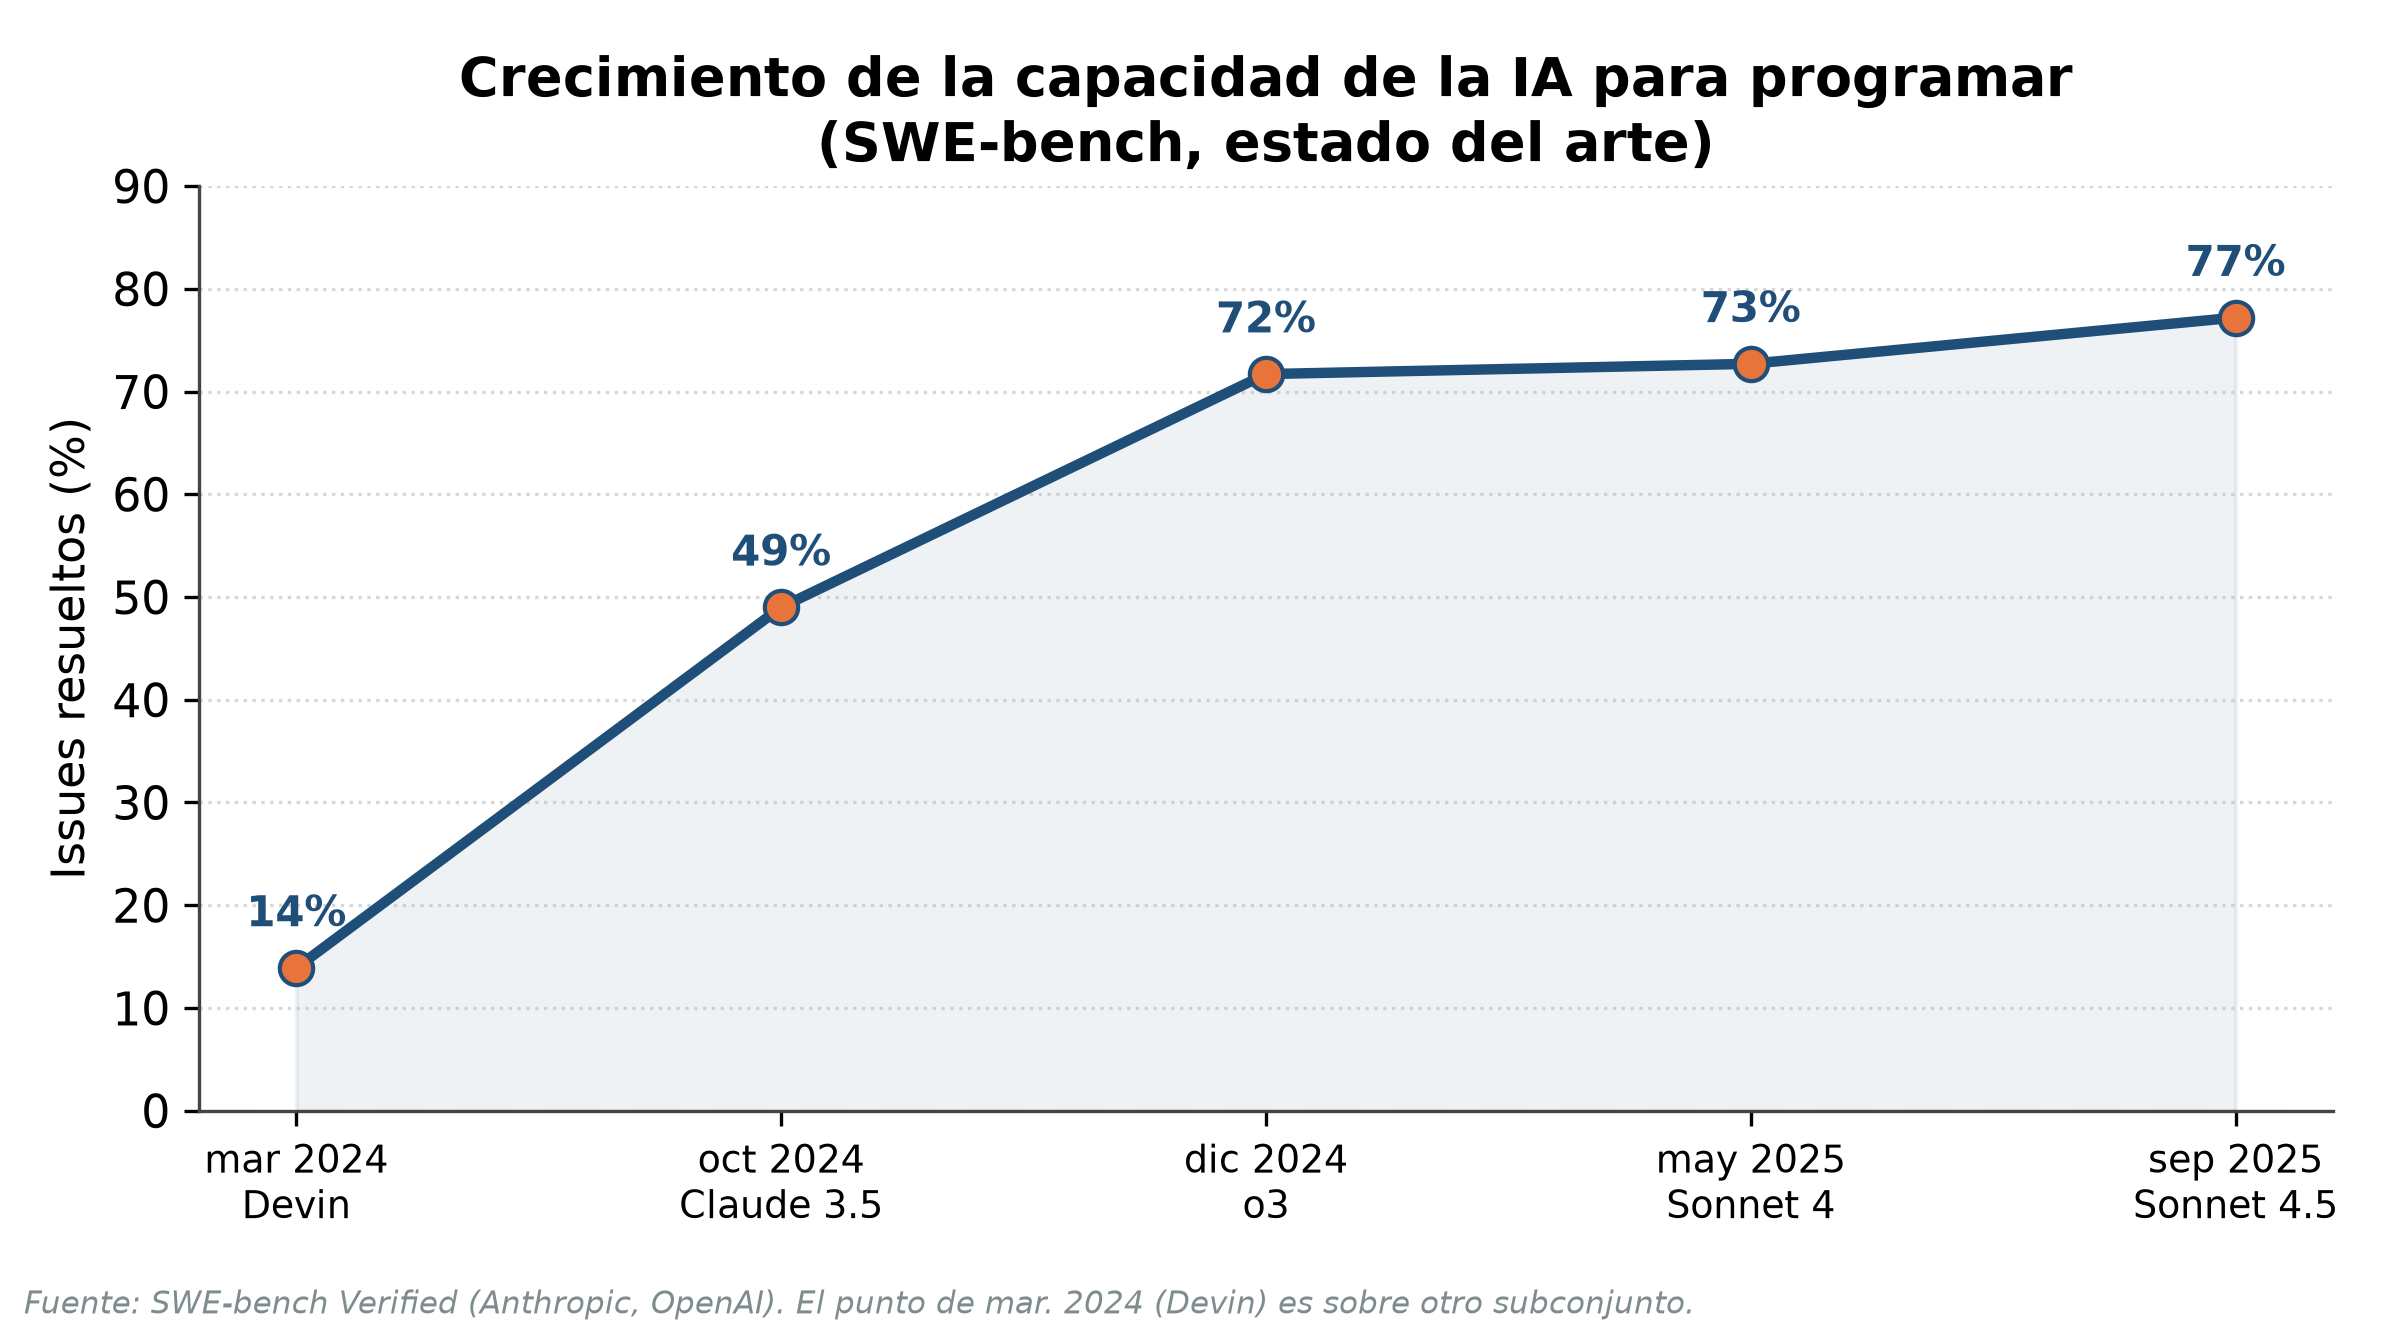
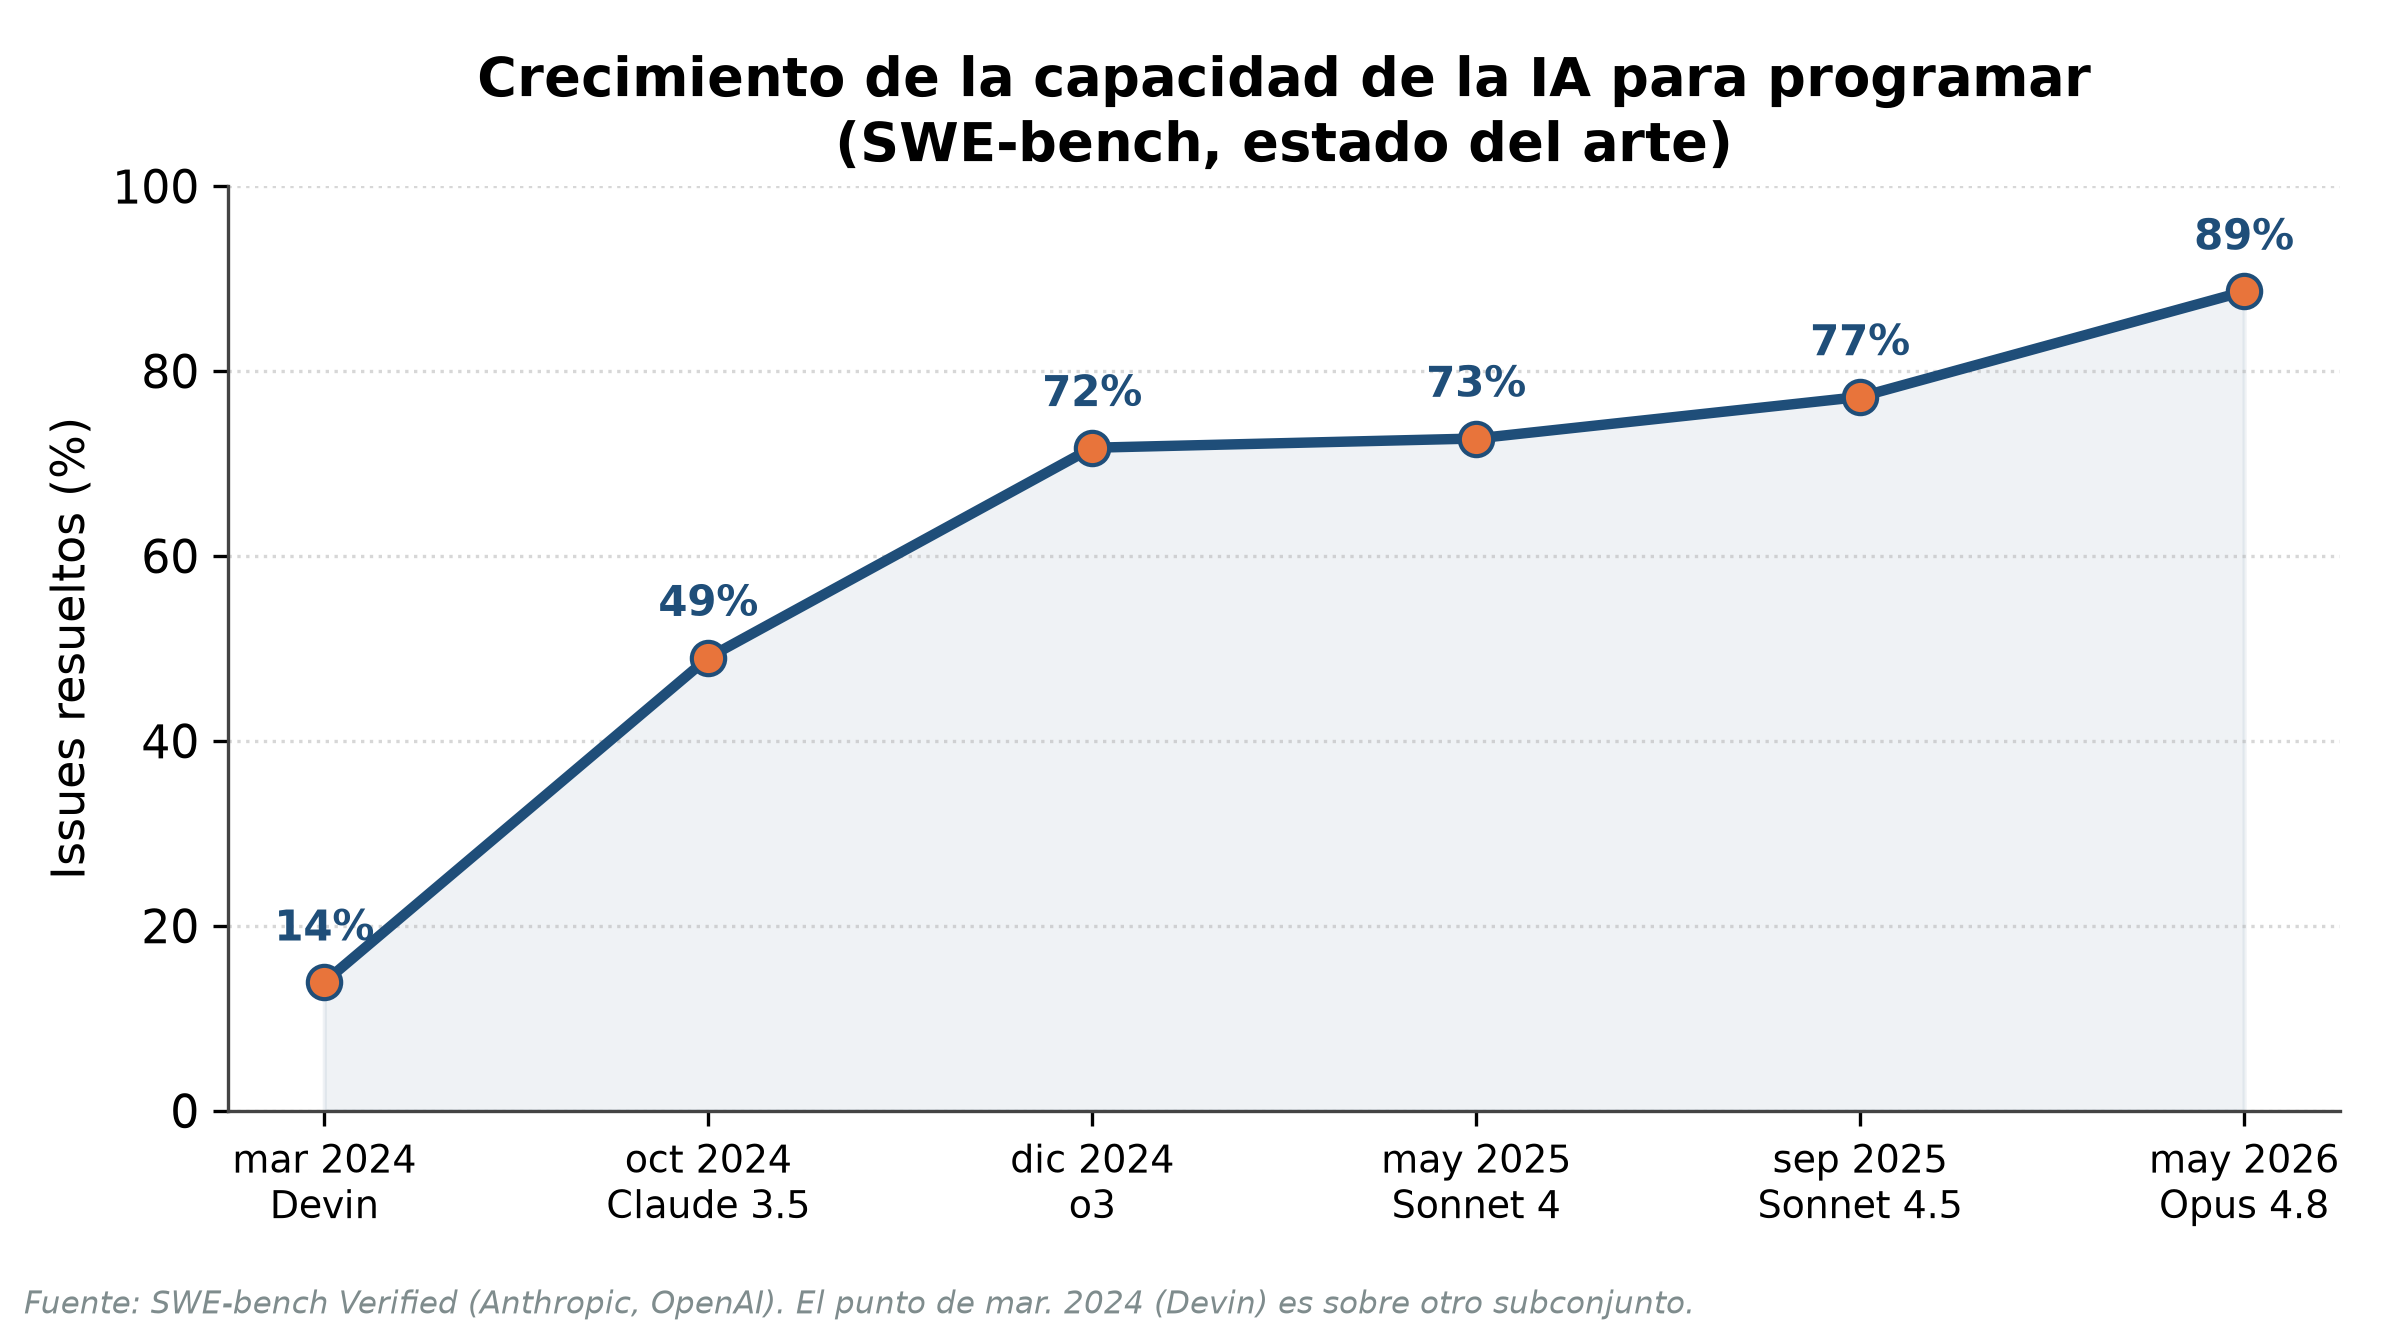
Actualizar a fuentes 2026 (de 1 a 7 fuentes del año en curso)
El paper se apoyaba casi solo en 2025. Actualizado con fuentes 2026 reales,
verificadas contra fuentes primarias por dos investigadores:

Reemplazos 2025 -> 2026:
- SWE-bench: estado del arte ~89% (Claude Opus 4.8, Anthropic 2026) + figura 1
  extendida hasta may-2026.
- Pichai (Google Cloud Next 2026): 75% del código nuevo en Google es generado
  por IA y aprobado por ingenieros (reemplaza el ~25% de 2024).
- SignalFire 2026: contratación de recién recibidos -65% (grandes tech) / -76%
  (startups) vs 2019.
- Stroustrup 2026: "más errores, más agujeros de seguridad... difícil de
  validar; los senior que validan empiezan a jubilarse".

Nuevas fuentes teóricas 2026 (sección IV):
- Dong et al. (2026): el desempeño de los LLM se estratifica segun la
  jerarquia de Chomsky (ChomskyBench).
- Guo y Li (2026): alucinacion inevitable por optimalidad espacial
  (teorema rate-distortion).

Descartadas por no existir en 2026 (verificado): Stack Overflow/Octoverse/WEF
Future of Jobs "2026", y el "95%" de Fable 5 (no confirmado, modelo suspendido).
Bibliografia: 41 -> 44; 7 entradas de 2026. .docx, .pdf y figura regenerados.

Claude-Session: https://claude.ai/code/session_01FqTs9VKxmytL6igKtKJn1Z

diff --git a/build_figures.py b/build_figures.py
@@ -43,7 +43,7 @@ def barlabels(ax, bars, fmt="{:+.0f}", dy=0.0):
 def fig1():
     pts = [("mar 2024\nDevin", 13.9), ("oct 2024\nClaude 3.5", 49.0),
            ("dic 2024\no3", 71.7), ("may 2025\nSonnet 4", 72.7),
-           ("sep 2025\nSonnet 4.5", 77.2)]
+           ("sep 2025\nSonnet 4.5", 77.2), ("may 2026\nOpus 4.8", 88.6)]
     x = list(range(len(pts))); y = [p[1] for p in pts]
     fig, ax = plt.subplots(figsize=(8, 4.4))
     ax.plot(x, y, "-o", color=PRIMARY, lw=2.5, markersize=8, markerfacecolor=ACCENT,
@@ -53,7 +53,7 @@ def fig1():
         ax.annotate(f"{yi:.0f}%", (xi, yi), textcoords="offset points",
                     xytext=(0, 10), ha="center", fontsize=10, fontweight="bold", color=PRIMARY)
     ax.set_xticks(x); ax.set_xticklabels([p[0] for p in pts], fontsize=9)
-    ax.set_ylim(0, 90); ax.set_ylabel("Issues resueltos (%)")
+    ax.set_ylim(0, 100); ax.set_ylabel("Issues resueltos (%)")
     ax.set_title("Crecimiento de la capacidad de la IA para programar\n(SWE-bench, estado del arte)")
     ax.grid(axis="y", ls=":", alpha=0.5)
     finish(ax, "Fuente: SWE-bench Verified (Anthropic, OpenAI). El punto de mar. 2024 (Devin) es sobre otro subconjunto.")

diff --git a/paper.md b/paper.md
@@ -24,9 +24,9 @@ Los peldaños siguientes confirman el patrón. Los entornos integrados de desarr
 
 ## III. El presente: la IA agéntica en el desarrollo de software (2021-2026)
 
-En el *benchmark* SWE-bench Verified, que mide la capacidad de los sistemas de IA para resolver *issues* reales de proyectos de software, el estado del arte pasó de resolver alrededor del 14 % de los problemas a comienzos de 2024 a cerca del 77 % en 2025 (Anthropic, 2025): de uno de cada siete casos a más de tres de cada cuatro en unos dieciocho meses, aunque el *benchmark* empieza a saturarse. La adopción acompaña esa capacidad: GitHub Copilot superó los veinte millones de usuarios en 2025; Sundar Pichai afirmó en 2024 que la IA genera —y los ingenieros luego revisan— «más de una cuarta parte de todo el código nuevo en Google» y Satya Nadella la estimó en 2025 entre el 20 % y el 30 % en Microsoft (Zeff, 2025).
+En el *benchmark* SWE-bench Verified, que mide la capacidad de los sistemas de IA para resolver *issues* reales de proyectos de software, el estado del arte pasó de resolver alrededor del 14 % de los problemas a comienzos de 2024 a casi el 89 % en 2026 (Anthropic, 2026): de uno de cada siete casos a casi nueve de cada diez en dos años, aunque el *benchmark* empieza a saturarse. La adopción acompaña esa capacidad: GitHub Copilot superó los veinte millones de usuarios en 2025; Sundar Pichai afirmó en 2026 que el 75 % del código nuevo en Google se genera con IA y lo aprueban ingenieros (Pichai, 2026), y Satya Nadella lo estimó entre el 20 % y el 30 % en Microsoft (Zeff, 2025).
 
-![Figura 1. La capacidad de la IA para resolver *issues* reales de software pasó de ~14 % (inicios de 2024) a ~77 % (2025) en SWE-bench. Fuente: elaboración propia a partir de Anthropic (2025) y datos públicos de SWE-bench.](figuras/fig1_swebench.png)
+![Figura 1. La capacidad de la IA para resolver *issues* reales de software pasó de ~14 % (inicios de 2024) a ~89 % (2026) en SWE-bench. Fuente: elaboración propia a partir de Anthropic (2026) y datos públicos de SWE-bench.](figuras/fig1_swebench.png)
 
 Ahora bien, la evidencia rigurosa sobre su impacto es más matizada de lo que sugiere el entusiasmo. Un experimento controlado de GitHub y Microsoft mostró que los desarrolladores que usaban Copilot completaban una tarea acotada —programar un servidor HTTP— un 55,8 % más rápido (Peng et al., 2023). Sin embargo, un ensayo controlado aleatorizado independiente de METR (2025) arrojó un resultado contraintuitivo: desarrolladores *experimentados* en sus propios repositorios maduros tardaron un 19 % *más* con herramientas de IA, pese a que *creían* haberse acelerado un 20 %.
 
@@ -44,11 +44,11 @@ La primera es la **indecidibilidad**. En 1936, Alan Turing demostró que el prob
 
 La segunda barrera es la **intratabilidad**. El problema P vs. NP pregunta si todo problema cuya solución puede verificarse rápidamente puede también resolverse rápidamente (Cook, 1971; Karp, 1972). Bajo la hipótesis ampliamente aceptada de que P ≠ NP, numerosos problemas centrales de la ingeniería (planificación, ruteo, asignación de recursos) son NP-difíciles, sin solución eficiente en el peor caso. Este límite es matemático, no de capacidad de cómputo: ninguna IA lo derogará. El ingeniero seguirá siendo quien elija heurísticas, aproximaciones y compromisos; decidir *qué* sacrificar es un acto de juicio, no un cálculo automatizable.
 
-La tercera barrera concierne al lenguaje. La jerarquía de Chomsky (1956) organiza los lenguajes formales según su poder generativo, y la sintaxis de los lenguajes de programación es esencialmente libre de contexto —su léxico es regular y ciertas reglas (tipos, declaración previa al uso) son sensibles al contexto (Aho et al., 2007)—: son formales y se diseñan para analizarse de manera determinista y sin ambigüedad. El lenguaje natural —y, con él, las instrucciones que un humano da a un LLM— es, en cambio, ambiguo, dependiente del contexto y no constituye un lenguaje formal. El rol perdurable del ingeniero es justamente el de traductor entre ambos mundos: convertir la intención humana, informal e incompleta, en una especificación formal que una máquina pueda ejecutar. Esta conexión no es una mera analogía: trabajos recientes muestran que el cómputo interno de un *transformer* con precisión logarítmica está acotado por la clase TC⁰ y —salvo que se derrumben conjeturas de complejidad ampliamente aceptadas— no reconoce gramáticas libres de contexto arbitrarias (Delétang et al., 2023; Merrill y Sabharwal, 2023); la arquitectura actual no generaliza a lenguajes que exceden ese nivel.
+La tercera barrera concierne al lenguaje. La jerarquía de Chomsky (1956) organiza los lenguajes formales según su poder generativo, y la sintaxis de los lenguajes de programación es esencialmente libre de contexto —su léxico es regular y ciertas reglas (tipos, declaración previa al uso) son sensibles al contexto (Aho et al., 2007)—: son formales y se diseñan para analizarse de manera determinista y sin ambigüedad. El lenguaje natural —y, con él, las instrucciones que un humano da a un LLM— es, en cambio, ambiguo, dependiente del contexto y no constituye un lenguaje formal. El rol perdurable del ingeniero es justamente el de traductor entre ambos mundos: convertir la intención humana, informal e incompleta, en una especificación formal que una máquina pueda ejecutar. Esta conexión no es una mera analogía: trabajos recientes muestran que el cómputo interno de un *transformer* con precisión logarítmica está acotado por la clase TC⁰ y —salvo que se derrumben conjeturas de complejidad ampliamente aceptadas— no reconoce gramáticas libres de contexto arbitrarias (Delétang et al., 2023; Merrill y Sabharwal, 2023; Dong et al., 2026); la arquitectura actual no generaliza a lenguajes que exceden ese nivel.
 
 ![Figura 4. Los *transformers*, situados dentro de la jerarquía de Chomsky: con precisión realista equivalen a la clase de complejidad TC⁰. Fuente: elaboración propia a partir de Chomsky (1956), Delétang et al. (2023) y Merrill y Sabharwal (2023).](figuras/fig4_chomsky.png)
 
-Estas barreras alcanzan también a la propia IA. Trabajos recientes demuestran, mediante diagonalización apoyada en la indecidibilidad del problema de la detención, que la «alucinación» es una limitación innata de los LLM: ningún modelo puede aprender todas las funciones computables, por lo que producirá inevitablemente errores que no puede detectar por sí mismo (Xu et al., 2024). Necesita, pues, un verificador externo —el ingeniero— que responda por ella.
+Estas barreras alcanzan también a la propia IA. Trabajos recientes demuestran, mediante diagonalización apoyada en la indecidibilidad del problema de la detención, que la «alucinación» es una limitación innata de los LLM: ningún modelo puede aprender todas las funciones computables, por lo que producirá inevitablemente errores que no puede detectar por sí mismo (Xu et al., 2024; Guo y Li, 2026). Necesita, pues, un verificador externo —el ingeniero— que responda por ella.
 
 Finalmente, Brooks (1987) distinguió la complejidad **accidental** —la del proceso de construcción, que las herramientas sí reducen— de la **esencial** —la dificultad conceptual inherente al problema—. Para Brooks, «la parte más difícil de construir un sistema de software es decidir con precisión qué construir»: la IA ataca lo accidental, pero decidir qué construir, para quién y con qué compromisos éticos es un acto humano cargado de valores, no un cómputo. En la misma línea, Naur (1985) sostuvo que el verdadero producto de programar es una *teoría* del problema que reside en la mente del equipo y que ninguna especificación formal captura.
 
@@ -58,7 +58,7 @@ Si la teoría garantiza un núcleo humano, la economía explica por qué ese nú
 
 El nuevo rol puede describirse como un peldaño más en la escalera de abstracción. El ingeniero del futuro escribirá menos código línea por línea y, en cambio, dedicará su tiempo a: **especificar** con precisión qué debe hacer el sistema (la complejidad esencial de Brooks); **diseñar** arquitecturas e integrar componentes heterogéneos, incluidos los propios modelos de IA; **validar** el código generado —algo que Rice y Turing vuelven indecidible en general y, por eso, no delegable—; **supervisar críticamente** sistemas autónomos que ni siquiera pueden autoverificarse, atendiendo a su seguridad y su sesgo; y **decidir**, bajo la intratabilidad de P vs. NP, qué sacrificar y con qué valores. Es, precisamente, el «30 % difícil» de Osmani convertido en el centro de gravedad de la profesión. Las proyecciones de competencias confirman ese desplazamiento: cerca del 40 % de las habilidades cambiarán hacia 2030, con el pensamiento analítico, la IA y los datos, y la ciberseguridad entre las más demandadas (World Economic Forum, 2025); y marcos como el SWEBOK (Washizaki, 2024) ya definen la ingeniería de software muy por encima de la codificación, abarcando requisitos, arquitectura, validación y seguridad.
 
-Con todo, los datos del mercado laboral advierten que la transición no será indolora ni uniforme. La Oficina de Estadísticas Laborales de EE. UU. proyecta un crecimiento del empleo de «desarrolladores de software» cercano al 15 % entre 2024 y 2034 —muy por encima del promedio—, mientras la categoría más estrecha de «programadores» se contraería un 6 % por la automatización (Bureau of Labor Statistics, 2025): se automatiza la tarea de codificar, no la de diseñar y decidir. A la vez, un estudio de Stanford halló una caída de empleo del 13 % al 16 % en los trabajadores de carrera temprana (22-25 años) de las ocupaciones más expuestas a la IA —entre ellas el desarrollo de software—, mientras los de mayor experiencia se mantenían estables (Brynjolfsson et al., 2025). La contratación de recién recibidos en las grandes tecnológicas cayó cerca del 50 % desde 2019, porque la IA absorbe las tareas con que los juniors aprendían (SignalFire, 2025). Indeed registra una caída del 36 % en las ofertas de software desde 2020 y un endurecimiento de los requisitos: los puestos junior se contrajeron un 34 %, frente al 19 % de los senior (Indeed Hiring Lab, 2025). Salesforce, incluso, anunció que en 2025 no sumaría ingenieros tras elevar su productividad más de un 30 % con IA (Benioff, 2024). La «puerta de entrada» junior se estrecha y la demanda se desplaza hacia perfiles con criterio: las competencias del nuevo rol.
+Con todo, los datos del mercado laboral advierten que la transición no será indolora ni uniforme. La Oficina de Estadísticas Laborales de EE. UU. proyecta un crecimiento del empleo de «desarrolladores de software» cercano al 15 % entre 2024 y 2034 —muy por encima del promedio—, mientras la categoría más estrecha de «programadores» se contraería un 6 % por la automatización (Bureau of Labor Statistics, 2025): se automatiza la tarea de codificar, no la de diseñar y decidir. A la vez, un estudio de Stanford halló una caída de empleo del 13 % al 16 % en los trabajadores de carrera temprana (22-25 años) de las ocupaciones más expuestas a la IA —entre ellas el desarrollo de software—, mientras los de mayor experiencia se mantenían estables (Brynjolfsson et al., 2025). La contratación de recién recibidos cayó cerca del 65 % en las grandes tecnológicas y un 76 % en las startups respecto de 2019, porque la IA absorbe las tareas con que los juniors aprendían (SignalFire, 2026). Indeed registra una caída del 36 % en las ofertas de software desde 2020 y un endurecimiento de los requisitos: los puestos junior se contrajeron un 34 %, frente al 19 % de los senior (Indeed Hiring Lab, 2025). Salesforce, incluso, anunció que en 2025 no sumaría ingenieros tras elevar su productividad más de un 30 % con IA (Benioff, 2024). La «puerta de entrada» junior se estrecha y la demanda se desplaza hacia perfiles con criterio: las competencias del nuevo rol.
 
 ![Figura 5. El empleo se recompone: crece «desarrollador de software» mientras se contraen «programador» y el empleo joven en ocupaciones expuestas a la IA. Fuente: Bureau of Labor Statistics (2025); Brynjolfsson et al. (2025).](figuras/fig5_empleo.png)
 
@@ -68,7 +68,7 @@ Con todo, los datos del mercado laboral advierten que la transición no será in
 
 Como toda proyección, depende de cómo lean el futuro quienes lo construyen, y sus opiniones, aunque dispares, convergen en un punto. En el extremo más audaz, Dario Amodei (Anthropic) pronosticó en marzo de 2025 que la IA escribiría el 90 % del código en tres a seis meses y «esencialmente todo» en doce; pero aclaró de inmediato que «el programador todavía debe especificar (…) las decisiones generales de diseño» (Council on Foreign Relations, 2025). Andrej Karpathy describió el «Software 3.0», en el que «programamos las computadoras en inglés» —que el ingeniero aún debe desambiguar— (Karpathy, 2025), y popularizó el *vibe coding*, programación delegada en la IA.
 
-No todas las voces comparten ese optimismo. Grady Booch, coautor de UML, replicó a Amodei que tales pronósticos revelan «una incomprensión fundamental de lo que es la ingeniería de software» y condensó la cuestión en una frase: «tus herramientas están cambiando, pero tus problemas no» (Booch, 2026). Bjarne Stroustrup, creador de C++, advirtió por su parte que el riesgo no es tanto el reemplazo como que los programadores «pierdan la capacidad de detectar problemas por estar tan acostumbrados a que se los resuelvan» (Stroustrup, 2025), un peligro que la sección anterior fundamenta teóricamente.
+No todas las voces comparten ese optimismo. Grady Booch, coautor de UML, replicó a Amodei que tales pronósticos revelan «una incomprensión fundamental de lo que es la ingeniería de software» y condensó la cuestión en una frase: «tus herramientas están cambiando, pero tus problemas no» (Booch, 2026). Bjarne Stroustrup, creador de C++, advirtió que las herramientas de IA «generan más errores, más agujeros de seguridad… código difícil de validar», justo cuando los desarrolladores senior capaces de validarlo empiezan a jubilarse (Stroustrup, 2026).
 
 Sam Altman, de OpenAI, ofrece quizás la síntesis más equilibrada. Sostuvo que «cada ingeniero de software hará, durante un buen tiempo, muchísimo más» (Thompson, 2025), y agregó que «mucha más gente podrá crear software, pero los expertos seguirán siendo mucho mejores que los novatos, si adoptan las nuevas herramientas» (Altman, 2025). Es la hipótesis de este trabajo en boca de un protagonista del cambio: la IA no anula al ingeniero, sino que amplifica al que sabe usarla. Existen, es cierto, posiciones más radicales —Welsh anuncia software «entrenado, no programado»—, pero incluso varias de las voces más optimistas reservan para el humano las tareas de especificar, decidir y juzgar: las mismas que la teoría de la computación demuestra que no pueden automatizarse.
 
@@ -90,7 +90,7 @@ Aho, A. V., Lam, M. S., Sethi, R., & Ullman, J. D. (2007). *Compilers: Principle
 
 Altman, S. (2025, 10 de junio). *The gentle singularity*. https://blog.samaltman.com/the-gentle-singularity
 
-Anthropic. (2025, 22 de mayo). *Introducing Claude 4*. https://www.anthropic.com/news/claude-4
+Anthropic. (2026, 28 de mayo). *Claude Opus 4.8*. https://www.anthropic.com/news/claude-opus-4-8
 
 Autor, D. H. (2015). Why are there still so many jobs? The history and future of workplace automation. *Journal of Economic Perspectives, 29*(3), 3-30. https://doi.org/10.1257/jep.29.3.3
 
@@ -118,6 +118,10 @@ Dijkstra, E. W. (1972). The humble programmer. *Communications of the ACM, 15*(1
 
 Dohmke, T. (2025, 11 de agosto). *Auf Wiedersehen, GitHub*. The GitHub Blog. https://github.blog/news-insights/company-news/goodbye-github/
 
+Dong, Y., Xiao, J., Jiang, X., Guo, X., Fan, Z., Qian, J., Zhang, K., Li, J., Jin, Z., & Li, G. (2026). *Evaluating the formal reasoning capabilities of large language models through Chomsky hierarchy* [Preprint]. arXiv. https://doi.org/10.48550/arXiv.2604.02709
+
+Guo, A., & Li, J. (2026). *Hallucination is a consequence of space-optimality: A rate-distortion theorem for membership testing* [Preprint]. arXiv. https://doi.org/10.48550/arXiv.2602.00906
+
 Indeed Hiring Lab. (2025, 30 de julio). *Experience requirements have tightened amid the tech hiring freeze*. https://www.hiringlab.org/2025/07/30/experience-requirements-have-tightened-amid-the-tech-hiring-freeze/
 
 Karp, R. M. (1972). Reducibility among combinatorial problems. En *Complexity of computer computations* (pp. 85-103). Plenum Press. https://doi.org/10.1007/978-1-4684-2001-2_9
@@ -142,13 +146,15 @@ Peng, S., Kalliamvakou, E., Cihon, P., & Demirer, M. (2023). *The impact of AI o
 
 Perry, N., Srivastava, M., Kumar, D., & Boneh, D. (2023). Do users write more insecure code with AI assistants? En *Proceedings of the 2023 ACM SIGSAC Conference on Computer and Communications Security (CCS '23)* (pp. 2785-2799). https://doi.org/10.1145/3576915.3623157
 
+Pichai, S. (2026, 22 de abril). *Sundar Pichai shares news from Google Cloud Next 2026*. Google. https://blog.google/innovation-and-ai/infrastructure-and-cloud/google-cloud/cloud-next-2026-sundar-pichai/
+
 Rice, H. G. (1953). Classes of recursively enumerable sets and their decision problems. *Transactions of the American Mathematical Society, 74*(2), 358-366. https://doi.org/10.1090/S0002-9947-1953-0053041-6
 
-SignalFire. (2025). *State of tech talent report 2025*. https://www.signalfire.com/blog/signalfire-state-of-talent-report-2025
+SignalFire. (2026, 22 de junio). *The SignalFire state of tech talent report — 2026*. https://www.signalfire.com/blog/signalfire-state-of-talent-report-2026
 
 Spracklen, J., Wijewickrama, R., Sakib, A. H. M. N., Maiti, A., Viswanath, B., & Jadliwala, M. (2025). We have a package for you! A comprehensive analysis of package hallucinations by code generating LLMs. En *Proceedings of the 34th USENIX Security Symposium*. USENIX Association. https://arxiv.org/abs/2406.10279
 
-Stroustrup, B. (2025, 9 de mayo). *Interview: Bjarne Stroustrup on 21st century C++, AI risks, and why the language is hard to replace* (T. Anderson, entrevistador). DevClass. https://devclass.com/2025/05/09/interview-bjarne-stroustrup-on-21st-century-c-ai-risks-and-why-the-language-is-hard-to-replace/
+Stroustrup, B. (2026, 18 de mayo). *Creator of C++: Bell Labs, negative overhead abstraction, and mistakes* (R. Peterman, entrevistador). Developing Dev. https://www.developing.dev/p/creator-of-c-bell-labs-negative-overhead
 
 Thompson, B. (2025, 20 de marzo). *An interview with OpenAI CEO Sam Altman about building a consumer tech company*. Stratechery. https://stratechery.com/2025/an-interview-with-openai-ceo-sam-altman-about-building-a-consumer-tech-company/
 

diff --git a/README.md b/README.md
@@ -11,7 +11,7 @@ sistemas automatizados.
 
 | Archivo | Descripción |
 |---|---|
-| `paper.md` | Fuente del paper (Markdown, editable). ~2.989 palabras de cuerpo; 41 referencias APA 7. |
+| `paper.md` | Fuente del paper (Markdown, editable). ~2.988 palabras de cuerpo; 44 referencias APA 7. |
 | `Paper_Rol_del_ingeniero_informatico_en_10_anios.docx` | Versión lista para entregar (portada, cuerpo justificado, bibliografía APA con sangría francesa). |
 | `Paper_Rol_del_ingeniero_informatico_en_10_anios.pdf` | Misma versión en PDF (para leer/entregar). Generado con `build_pdf.py`. |
 | `fuentes_adicionales.md` | Dossier de investigación: ~50 fuentes verificadas (papers, informes, artículos) con cita APA + DOI/URL + hallazgo clave, organizadas por eje temático. Base ampliada para profundizar cualquier sección. |
@@ -32,7 +32,7 @@ python3 build_docx.py      # crea el .docx con figuras embebidas
 ## Notas para completar antes de entregar
 
 - Portada: **completa** — Profesor: Mario Moreno; Integrantes: Martín Ezequiel Pulitano y Nicolás Ulises Silva.
-- Extensión: cuerpo en prosa (Introducción → Conclusión) ≈ 2.989 palabras, dentro
+- Extensión: cuerpo en prosa (Introducción → Conclusión) ≈ 2.988 palabras, dentro
   del límite de 1.500–3.000. El resumen, los pies de figura y la bibliografía van aparte.
 - 6 figuras embebidas + numeración de página. Todas las citas en APA 7, verificadas
   con fuentes primarias.